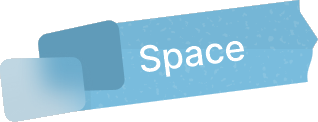
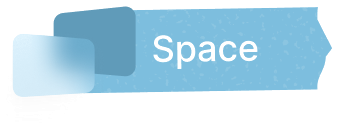
Use upright Figma Spaces badge (2525:10784) instead of tilted sticker.

diff --git a/index.html b/index.html
@@ -16,7 +16,7 @@
   <meta name="twitter:card" content="summary_large_image">
   <link rel="preconnect" href="https://fonts.googleapis.com">
   <link rel="preconnect" href="https://fonts.gstatic.com" crossorigin>
-  <link rel="stylesheet" href="css/site.css?v=home248">
+  <link rel="stylesheet" href="css/site.css?v=home249">
   <script>
   try {
     var _lang = localStorage.getItem("symbion-lang");
@@ -81,7 +81,7 @@
         </li>
         <li>
           <a class="hp-pillar hp-pillar--spaces" href="product/spaces.html" aria-label="Spaces">
-            <img class="hp-pillar-sticker" src="assets/pillars/space-sticker.png?v=247" width="168" height="64" alt="" aria-hidden="true">
+            <img class="hp-pillar-sticker" src="assets/pillars/space-sticker.png?v=249" width="160" height="61" alt="" aria-hidden="true">
             <span class="hp-pillar-desc" data-i18n="hpPillarSpaces">人与 AI 同场协作，一起推进工作。</span>
           </a>
         </li>
@@ -126,6 +126,6 @@
   <script src="https://cdn.jsdelivr.net/npm/gsap@3.12.7/dist/gsap.min.js"></script>
   <script src="https://cdn.jsdelivr.net/npm/gsap@3.12.7/dist/ScrollTrigger.min.js"></script>
   <script src="https://cdn.jsdelivr.net/npm/lenis@1.1.20/dist/lenis.min.js"></script>
-  <script src="js/site.js?v=home248"></script>
+  <script src="js/site.js?v=home249"></script>
 </body>
 </html>

diff --git a/css/site.css b/css/site.css
@@ -5015,7 +5015,7 @@ body.home-v2 .hp-lead { color: #3f3f46; }
   color: #3c7a94;
 }
 
-/* Figma poster-ui badge stickers — Cosmo/Spaces front glass baked as Citta orb */
+/* Figma poster-ui badge stickers */
 .hp-pillar-sticker {
   position: absolute;
   left: -14px;
@@ -5039,9 +5039,9 @@ body.home-v2 .hp-lead { color: #3f3f46; }
   width: 155px;
 }
 .hp-pillar--spaces .hp-pillar-sticker {
-  left: -20px;
-  top: -28px;
-  width: 168px;
+  left: -14px;
+  top: -22px;
+  width: 160px;
 }
 
 .hp-pillar-desc {
